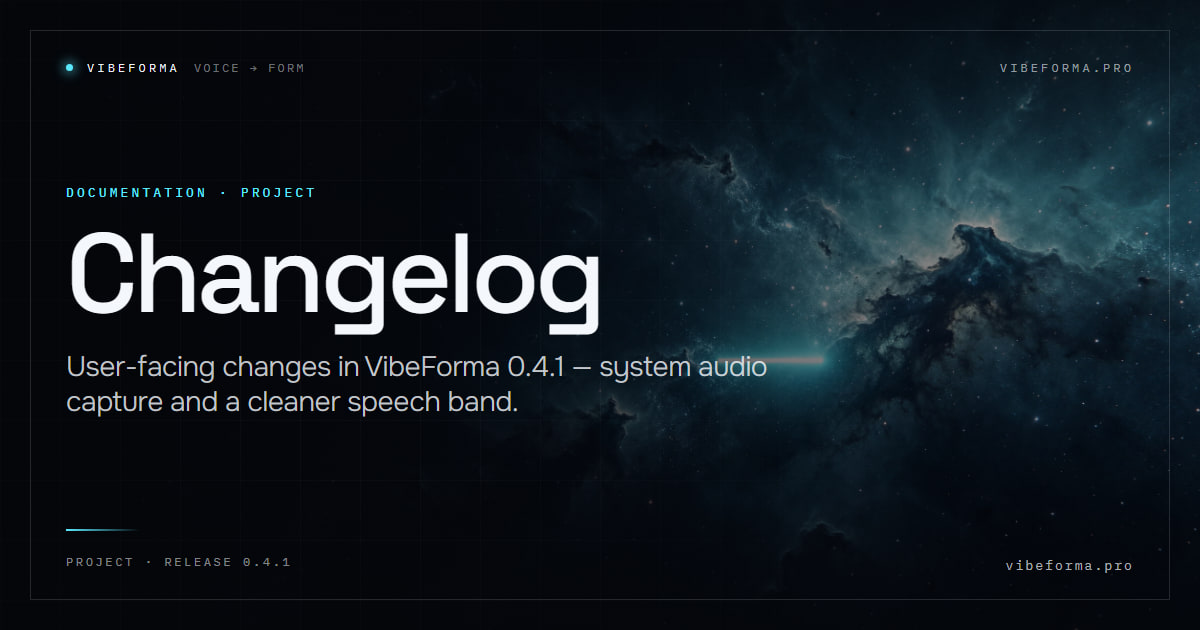
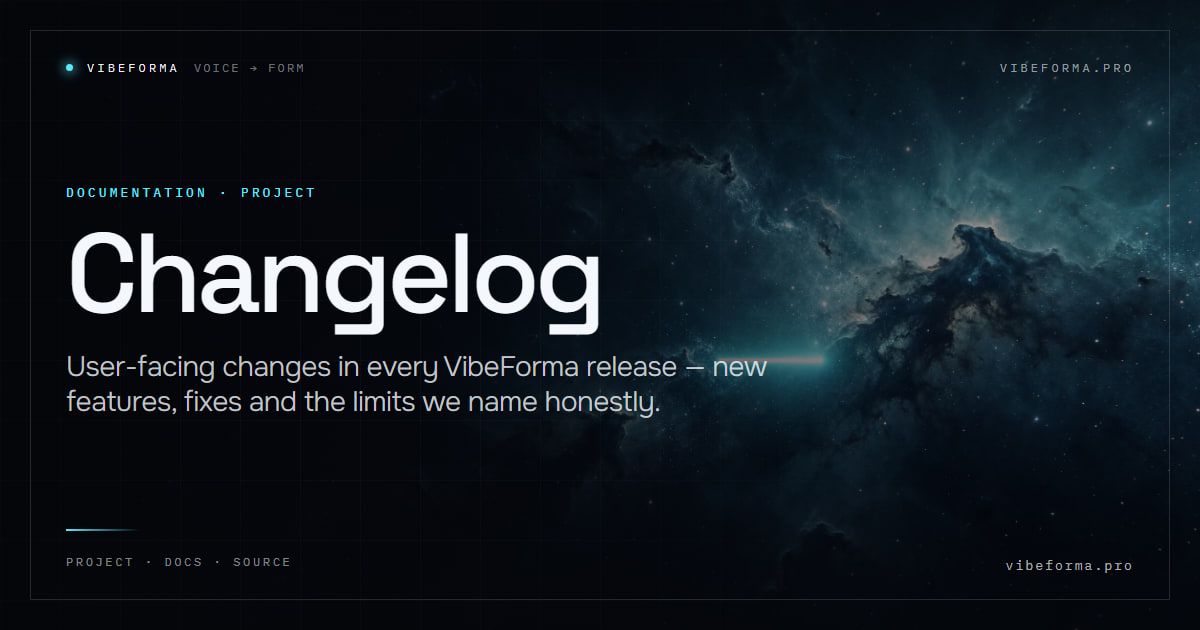
docs: keep the project social previews version-neutral

Changed region(s): [[0.0617, 0.5429, 0.6475, 0.6635], [0.1233, 0.8746, 0.2467, 0.9048]]

diff --git a/src/content/docs/ru/changelog.md b/src/content/docs/ru/changelog.md
@@ -1,6 +1,6 @@
 ---
 title: История версий
-description: Пользовательские изменения VibeForma 0.5.1 — записи системного звука, секундомер записи, пресеты качества распознавания, локальные папки моделей и перераспознавание одной записи.
+description: Пользовательские изменения в каждом релизе VibeForma — новые возможности, исправления и честно названные пределы.
 ---
 
 Эта страница суммирует пользовательские изменения в релизах VibeForma. Заметки о релизе также опубликованы на странице GitHub Releases.

diff --git a/src/content/docs/changelog.md b/src/content/docs/changelog.md
@@ -1,6 +1,6 @@
 ---
 title: Changelog
-description: User-facing changes in VibeForma 0.5.1 — system-audio recordings, the take clock, recognition quality presets, local model folders and per-entry re-recognition.
+description: User-facing changes in every VibeForma release — new features, fixes and the limits we name honestly.
 ---
 
 This page summarizes the user-facing changes in VibeForma releases. Release notes are also published on the GitHub Releases page.
